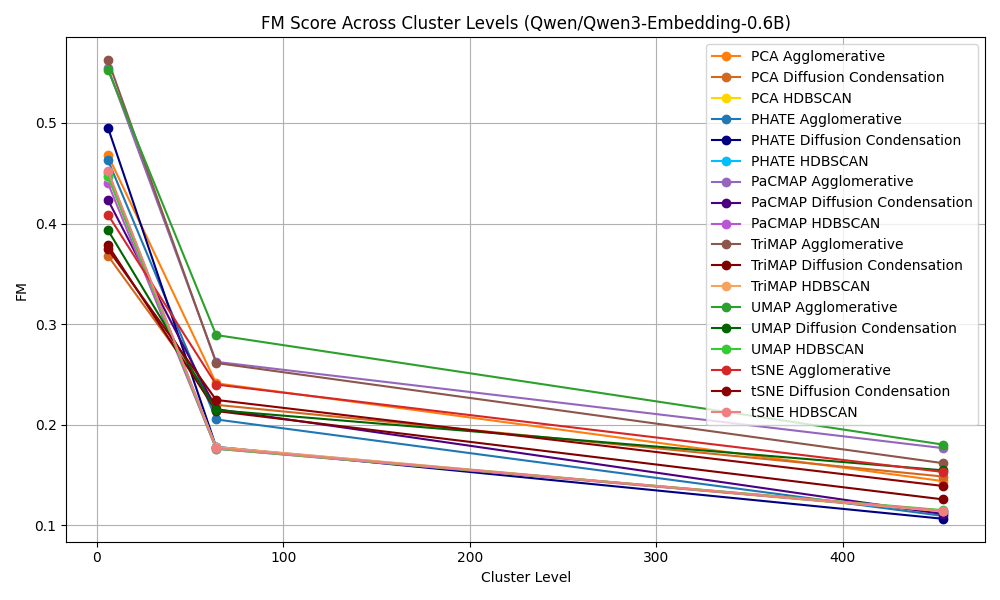
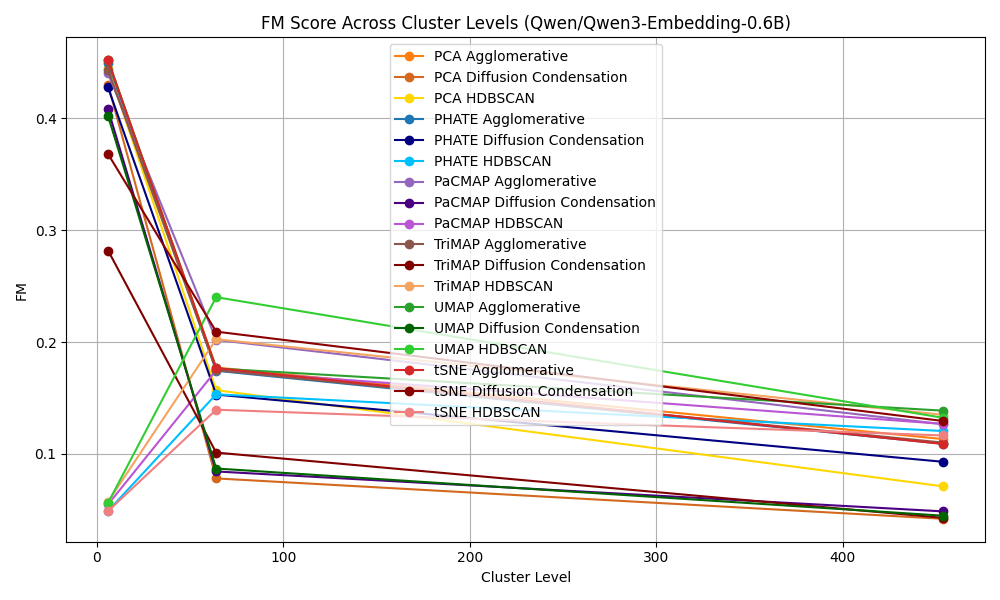
added cuml to dc

diff --git a/src/custom_packages/diffusion_condensation.py b/src/custom_packages/diffusion_condensation.py
@@ -4,7 +4,10 @@ import numpy as np
 from scipy.spatial.distance import pdist, squareform
 from sklearn.neighbors import kneighbors_graph
 import scipy
-
+from cuml.neighbors import NearestNeighbors
+from cuml.metrics import pairwise_distances
+import cupy
+import cupyx
 
 class DiffusionCondensation:
     def __init__(self,
@@ -45,8 +48,21 @@ class DiffusionCondensation:
 
     def diffusion_operator(self, data):
         """Create diffusion operator"""
-        # Generate the k-NN graph adjacency matrix using Scikit-learn
-        knn_graph_adjacency = kneighbors_graph(data, n_neighbors=self.k, mode='distance')
+        # Generate the k-NN graph adjacency matrix using cuML
+        knn = NearestNeighbors(n_neighbors = self.k)
+        knn.fit(data)
+        distances, indices = knn.kneighbors(data)
+
+        distances = cupy.asnumpy(distances).reshape(data.shape[0] * self.k)
+        indices = cupy.asnumpy(indices).reshape(data.shape[0] * self.k)
+        indptr = np.arange(0, (self.k * data.shape[0]) + 1, self.k)
+
+        knn_graph = scipy.sparse.csr_matrix(
+            (distances, indices, indptr),
+            shape=(data.shape[0], data.shape[0])
+        )
+        knn_graph_adjacency = knn_graph.maximum(knn_graph.T)
+
         knn_graph_adjacency = normalize(knn_graph_adjacency, norm=self.bandwidth_norm, axis=1, copy=False)
 
         knn_graph_adjacency = -knn_graph_adjacency.power(self.alpha)
@@ -74,7 +90,8 @@ class DiffusionCondensation:
         Merges data points that are within the merge_threshold distance of each other.
         Keeps track of which points are merged into which.
         """
-        distance_matrix = squareform(pdist(data))
+        data_gpu = cupy.asarray(data)
+        distance_matrix = cupy.asnumpy(pairwise_distances(data_gpu, metric='euclidean'))
         numpoints = distance_matrix.shape[0]
         cluster_mapping = {i: i for i in range(numpoints)}
         indices_to_keep = list(set(range(numpoints)))
